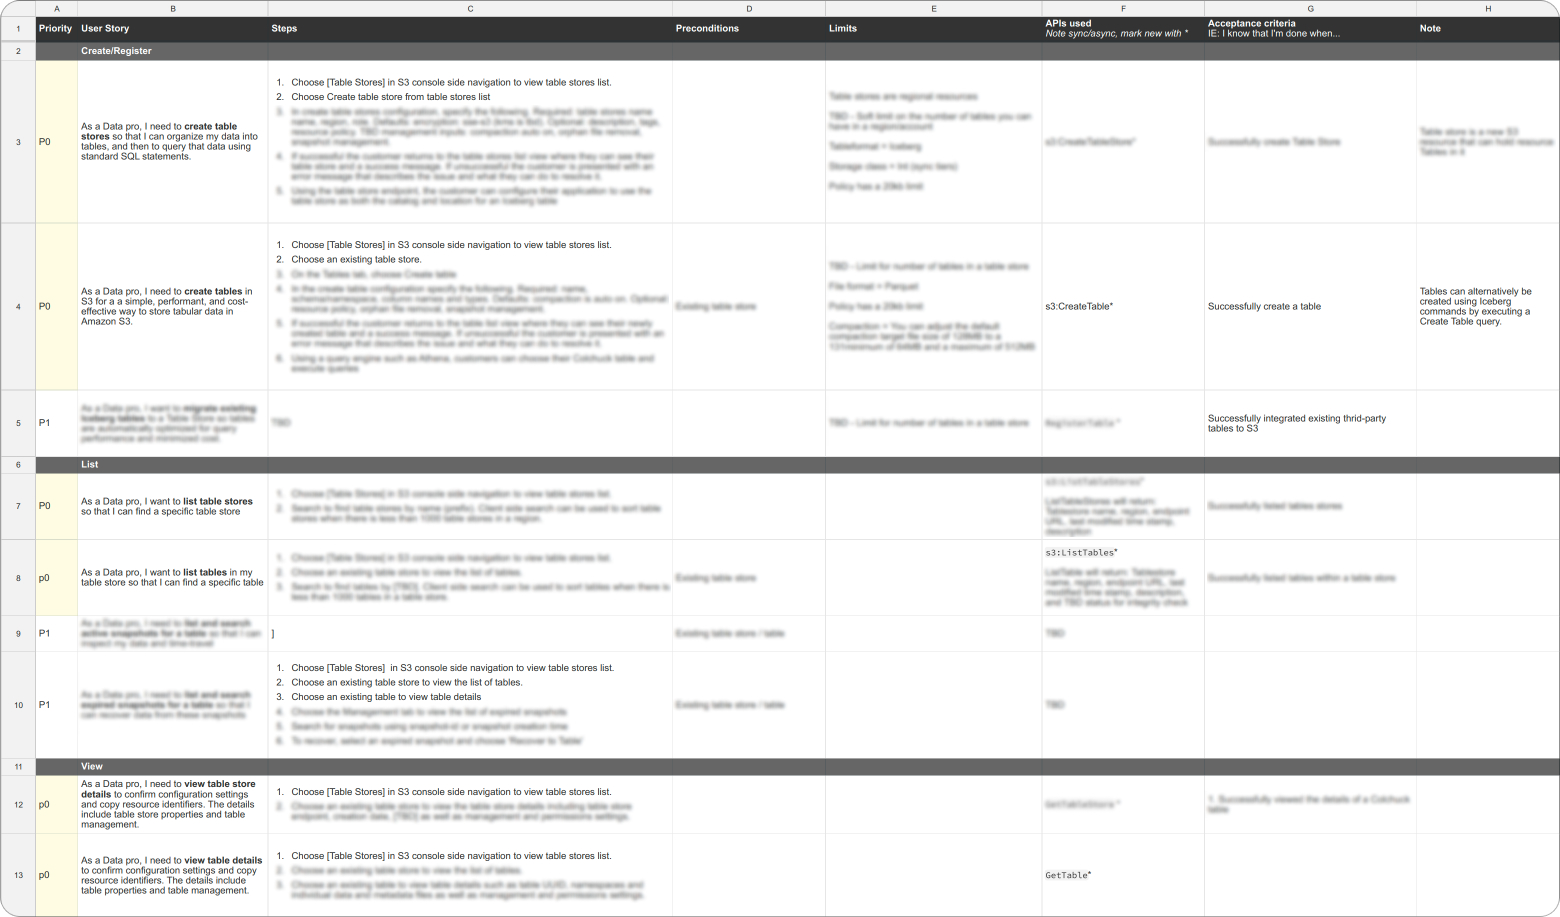
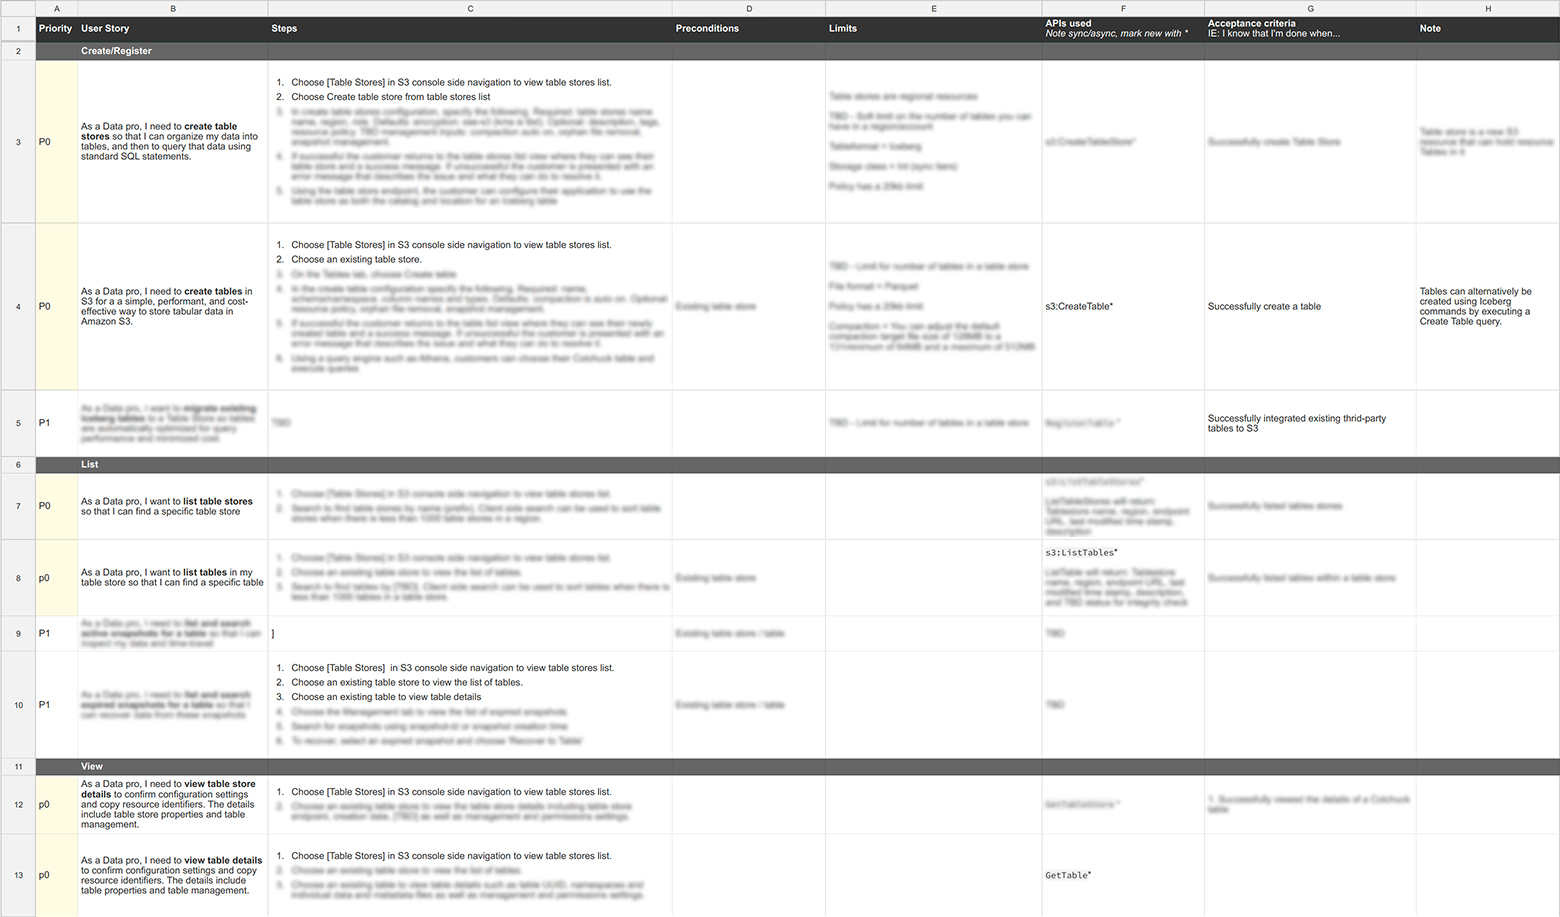
Project pages: looping crossfade media, S3 Tables content, layout tweaks
- CrossfadeImage cycles any number of images (JS-driven, reduced-motion
  aware); a single image renders static via a length guard.
- Adopt crossfades for the S3 Tables user-journey / console-flow visuals and
  the Agent research/backend visuals; add the supporting images.
- Rewrite the Agent (Amazon Q assistant) section 02 into design process,
  building blocks + layout, motion, and backend; drop its duplicate role line.
- noBorder now defaults to true; "S3 Table" -> "S3 Tables"; outcome
  description spans cols 2-11; section description bumped to p-m size.

diff --git a/app/data/projects.js b/app/data/projects.js
@@ -12,7 +12,7 @@ export const projects = {
     impact: "A unified console experience for infrastructure setup and data access across 3 storage services",
     type: "AWS",
     year: "2024",
-    tags: ["Cloud infrastructure", "0 → 1"],
+    tags: ["Sole designer", "Cloud infrastructure", "0 → 1"],
     metricsImage: "/img/sda/final-visual/createap.png",
     metrics: [
       { value: 34, suffix: "%", label: "Customers adoption" },
@@ -93,11 +93,11 @@ export const projects = {
     slug: "s3-tables",
     heroImage: "/img/s3tables/thumbnail.jpg",
     detailImage: "/img/s3tables/project-page-thumbnail.jpg",
-    projectTitle: { main: "AWS S3 Table: turn big data into insights in one click" },
-    navTitle: "AWS S3 Table: turn big data into insights in one click",
+    projectTitle: { main: "AWS S3 Tables: turn big data into insights in one click" },
+    navTitle: "AWS S3 Tables: turn big data into insights in one click",
     heroProblem: "Customers were spending millions building and maintaining complex infrastructure for AI/ML workloads. I led a 20-person team to design S3 Tables, a new product {img:/img/s3tables/customers-inline-img/hero-text/000.jpg,/img/s3tables/customers-inline-img/hero-text/101.jpg,/img/s3tables/customers-inline-img/hero-text/102.jpg|https://aws.amazon.com/s3/features/tables/} to eliminate that complexity, from concept to launch in 8 weeks.",
     heroSolution: "S3 Tables, featured in {link:the 2024 AWS CEO keynote}, handles infrastructure automatically, providing a seamless console experience that lets teams turn big data into insights in seconds.",
-    impact: "I led the UX of S3 Tables, a seamless console experience that turns big data into insights in seconds.",
+    impact: "I led the UX for S3 Tables, shaping the product’s core user experience, from concept to launch.",
     type: "AWS",
     year: "2024",
     tags: ["Design lead", "From concept to launch", "Cloud infrastructure"],
@@ -118,13 +118,13 @@ export const projects = {
         navLabel: "01 Who, why, and what",
         heading: "01 Who, why, and what",
         content: {
-          lead: "20+ interviews revealed that customers {img:/img/s3tables/customers-inline-img/netflix.jpg,/img/s3tables/customers-inline-img/bmw.jpg,/img/s3tables/customers-inline-img/mcdonlad.jpg,/img/s3tables/customers-inline-img/nasdaq.jpg,/img/s3tables/customers-inline-img/siemens.jpg,/img/s3tables/customers-inline-img/3m.jpg} don't want to store structured data in unstructured storage while maintaining custom infrastructure. They need a solution to streamline storage operations so teams can focus on data querying. I documented the existing user journey and its major pain points, proposed an optimized journey flow, and defined the console's information architecture. I then adapted the AWS JTBD framework to give the team a shared language for strategic scope trade-offs, categorized every user action and API detail into 6 workflows, and led the team to align on the product launch plan in one week.",
+          lead: "20+ interviews revealed that customers {img:/img/s3tables/customers-inline-img/netflix.jpg,/img/s3tables/customers-inline-img/bmw.jpg,/img/s3tables/customers-inline-img/mcdonlad.jpg,/img/s3tables/customers-inline-img/nasdaq.jpg,/img/s3tables/customers-inline-img/siemens.jpg,/img/s3tables/customers-inline-img/3m.jpg} don't want to store structured data in unstructured storage while maintaining custom infrastructure. They need a solution to streamline storage operations so teams can focus on data querying. I documented the existing user journey and major pain points, proposed an ideal user journey, then adapted the AWS JTBD framework to give the team a shared language for strategic scope trade-offs. After reviewing the JTBD framework, the team aligned on the product launch plan in one week.",
           subsections: [
-            { label: "Research", text: "While working with 1 researcher and 3 PMs, I used internal AI tools to synthesize transcripts from 20+ enterprise customer interviews, and the outcome revealed who we are designing for and their respective pain points.", images:[{ src: "/img/s3tables/problem/research.jpg", alt: "Research", noBorder: true}]},
-            { label: "Target personas", text: "Data engineers maintain storage systems daily. Strategic leads evaluate infrastructure costs and reliability.", images: [{ src: "/img/s3tables/problem/p-data-engineer.png", alt: "Data engineer persona", noBorder: true }, { src: "/img/s3tables/problem/p-strategic-lead.png", alt: "Strategic lead persona", noBorder: true }] },
-            { label: "Existing user journey with pain points", text: "I mapped the user journey into phases to surface the highest-friction tasks, guiding the team to align on priorities to act on. The user journey shows that millions are wasted on custom infrastructure and integration with query engines, while no native way to keep structured data up-to-date.", images: [{ src: "/img/s3tables/problem/user-journey.gif", alt: "Problem 1", noBorder: true }] },
-            { label: "JTBD Framework", text: "I first worked with the team to identify all user stories based on the JTBD framework, then mapped each story with its console steps, preconditions, and APIs to six groups: Create, List, View, Manage, Audit, and Delete.", images: [{ src: "/img/s3tables/scoping/JTBDframework.jpg", alt: "JTBD framework", noBorder: true }] },
-            { label: "Action plan", text: "The framework allowed the team to align on a prioritized action plan with defined APIs, known limitations, and console impact, turning an ambiguous product space into a concrete roadmap.", images: [{ src: "/img/s3tables/scoping/action-plan.jpg", alt: "Action plan", noBorder: true }] },
+            { label: "Research", text: "While working with 1 researcher and 3 PMs, I used internal AI tools to synthesize transcripts from 20+ enterprise customer interviews, and the outcome revealed who we are designing for and their respective pain points.", images:[{ src: "/img/s3tables/problem/research.jpg", alt: "Research"}]},
+            { label: "Target personas", text: "Data engineers maintain storage systems daily. Strategic leads evaluate infrastructure costs and reliability.", images: [{ src: "/img/s3tables/problem/p-data-engineer.png", alt: "Data engineer persona" }, { src: "/img/s3tables/problem/p-strategic-lead.png", alt: "Strategic lead persona" }] },
+            { label: "Existing user journey with pain points", text: "I mapped the user journey into phases to surface the highest-friction tasks, guiding the team to align on priorities to act on. The user journey shows that millions are wasted on custom infrastructure and integration with query engines, while no native way to keep structured data up-to-date.", images: [{ src: "/img/s3tables/problem/user-journey.gif", alt: "Problem 1" }] },
+            { label: "JTBD Framework", text: "I first worked with the team to identify all user stories based on the JTBD framework, then mapped each story with its console steps, preconditions, and APIs to six groups: Create, List, View, Manage, Audit, and Delete.", images: [{ src: "/img/s3tables/scoping/JTBDframework.jpg", alt: "JTBD framework" }] },
+            { label: "Action plan", text: "The framework allowed the team to align on a prioritized action plan with defined APIs, known limitations, and console impact, turning an ambiguous product space into a concrete roadmap.", images: [{ src: "/img/s3tables/scoping/action-plan.jpg", alt: "Action plan" }] },
           ],
         },
       },
@@ -135,10 +135,10 @@ export const projects = {
         content: {
           lead: "With scope locked, I turned the optimized journey into the console's structure. I defined an information architecture that groups tasks the way customers think, drafted the end-to-end flow, then tested and refined it until the path from setup to query was clear.",
           subsections: [
-            { label: "User journey optimization", text: "Building on the documented journey and its pain points, I reorganized the necessary actions into logical phases and eliminated steps that S3 Tables could automate or replace.", images: [{ src: "/img/s3tables/problem/user-journey-optimization.png", alt: "Optimized user journey", noBorder: true }] },
-            { label: "Console information architecture", text: "I ran two workshops with the PM and engineering teams to define and align on the console's information architecture.", images: [{ src: "/img/s3tables/scoping/console-ia.jpg", alt: "Console information architecture", noBorder: true }] },
-            { label: "User flow exploration", text: "Grounded in the ideal journey and the defined IA, I explored several console flow options. Quick testing with internal teams surfaced where the experience felt fragmented, and I gathered feedback on the specific breakpoints.", images: [{ src: "/img/s3tables/scoping/console-flow-issue.jpg", alt: "User flow exploration", noBorder: true }] },
-            { label: "User flow optimization", text: "I revised the flows and console steps based on that feedback, introducing a streamlined experience that directly addressed the customer pain points.", images: [{ src: "/img/s3tables/scoping/console-flow-optimization.jpg", alt: "User flow optimization", noBorder: true }] },
+            { label: "User journey optimization", text: "Building on the documented journey and its pain points, I reorganized the necessary actions into logical phases and eliminated steps that S3 Tables could automate or replace.", images: [{ srcs: ["/img/s3tables/problem/user-journey-problem.jpg", "/img/s3tables/problem/user-journey-optimization.jpg"], alt: "Optimized user journey" }] },
+            { label: "Console information architecture", text: "I ran two workshops with the PM and engineering teams to define and align on the console's information architecture.", images: [{ src: "/img/s3tables/scoping/console-ia.jpg", alt: "Console information architecture" }] },
+            { label: "User flow exploration", text: "Grounded in the ideal journey and the defined IA, I explored several console flow options. Quick testing with internal teams surfaced where the experience felt fragmented, and I gathered feedback on the specific breakpoints.", images: [{ srcs: ["/img/s3tables/scoping/console-flow-issue.jpg", "/img/s3tables/scoping/console-flow-issue-2.jpg"], alt: "User flow exploration" }] },
+            { label: "User flow optimization", text: "I revised the flows and console steps based on that feedback, introducing a streamlined experience that directly addressed the customer pain points.", images: [{ src: "/img/s3tables/scoping/console-flow-optimization.jpg", alt: "User flow optimization" }] },
           ],
         },
       },
@@ -151,7 +151,7 @@ export const projects = {
           subsections: [
             { label: "Design ideation", text: "I tested three integration models: a multi-step wizard that walked through each service, a fragmented approach with separate configuration pages, and a single-page create flow with integration built in.", images: [{ src: "/img/s3tables/design-iteration/design-ideation.jpg", alt: "Exploration" }] },
             { label: "Trade-offs", text: "The wizard added friction to what should feel instant. The fragmented model scattered a single decision across multiple pages. Customer research showed most users' end goal was querying, so bundling integration into table bucket creation matched their mental model.", images: [{ src: "/img/s3tables/design-iteration/s3table-iteration-tradeoffs.jpg", alt: "Trade-offs" }] },
-            { label: "Visual language exploration", text: "I proposed combining integration into the create flow as a default-on checkbox. One click replaces what used to require configuring multiple services independently. The team aligned quickly once the testing data backed it up.", images: [{ src: "/img/s3tables/design-iteration/decision-new.png", alt: "Decision", noBorder: true }] },
+            { label: "Visual language exploration", text: "I proposed combining integration into the create flow as a default-on checkbox. One click replaces what used to require configuring multiple services independently. The team aligned quickly once the testing data backed it up.", images: [{ src: "/img/s3tables/design-iteration/decision-new.png", alt: "Decision" }] },
           ],
         },
       },
@@ -167,7 +167,7 @@ export const projects = {
             text: "The S3 Tables console enables customers to create, manage, and query structured data for analytics and AI/ML workloads in a few clicks, drastically simplifies the way customers manage their storage.",
             images: [
               { src: "/img/s3tables/final-visual/newUI/tb-list.png", alt: "S3 Tables bucket overview" },
-              { src: "/img/s3tables/final-visual/newUI/tb-detail-l.png", alt: "S3 Table bucket detail page" },
+              { src: "/img/s3tables/final-visual/newUI/tb-detail-l.png", alt: "S3 Tables bucket detail page" },
             ],
           },
           {
@@ -215,8 +215,7 @@ export const projects = {
     impact: "Transforming AWS console interactions from manual, service-driven workflows to purpose-driven, agent-driven experiences.",
     type: "AWS",
     year: "2026",
-    role: "Lead UX Designer",
-    tags: ["AI", "0 → 1"],
+    tags: ["Lead UX Designer", "AI", "0 → 1"],
     // metrics intentionally empty until real numbers are available.
     metrics: [],
     sections: [
@@ -227,22 +226,22 @@ export const projects = {
         content: {
           lead: "Customer feedback on the launched Amazon Q console pointed to one gap: the experience was service-driven and manual when customers wanted it to be agentic and streamlined. I partnered with product to consolidate usage data and find the workflows that would benefit most from an agentic flow.",
           subsections: [
-            { label: "Research", text: "I built a research knowledge base and used a research agent to pull from it alongside trustworthy external sources and internal persona reports. The agent generated a product requirement document that I reviewed and refined with the product team." },
-            { label: "Target personas", text: "Two customer types shaped every decision. New and casual users want to state a purpose and explore AWS services through conversation. Power users live in the terminal and want conversational help layered on top, not a replacement." },
-            { label: "Pain points", text: "The console was organized around services rather than intent, so customers had to know which service to use before they could start. Common workflows were manual and fragmented, with no agentic path to complete them end to end." },
+            { label: "Research process", text: "Fully embracing the AI tools, I built a research knowledge base and used a research agent to pull from it alongside trustworthy external sources and internal persona reports. The agent generated a product requirement document that I reviewed and refined with the product team.", images: [{ srcs: ["/img/ai-assistant/research/research-process.png"], alt: "Research process" }] },
+            { label: "Target customers and their pain points", text: "Two customer types shaped every decision. New and casual users want to state a purpose and explore AWS services through conversation. Power users live in the terminal and want conversational help layered on top, not a replacement. On the other hand, the console was organized around services rather than intent, so customers had to know which service to use before they could start. Common workflows were manual and fragmented, with no agentic path to complete them end to end.", images: [{ srcs: ["/img/ai-assistant/research/one-pager.png", "/img/ai-assistant/research/one-pager-w-highlight.png"], alt: "Research one-pager" }] },
           ],
         },
       },
       {
         id: "scoping",
-        navLabel: "02 Product scoping",
-        heading: "02 Product scoping",
+        navLabel: "02 Define the agentic experience and backend design",
+        heading: "02 Define the agentic experience and backend design",
         content: {
-          lead: "I turned the research into a shared product definition and a system design the team could build on, aligning product and engineering before any pixels were drawn.",
+          lead: "Grounded in customer feedback, I designed an agentic experience matched to how customers actually think, and partnered with engineering on a backend structure that could scale with it.",
           subsections: [
-            { label: "Requirement alignment", text: "I used the generated requirement document to align the product team on scope. We reviewed it, updated it, and agreed on what the agentic experience needed to do." },
-            { label: "System design", text: "I partnered with engineering to draft and test the system design, making sure the backend was robust enough to support the expansion into an agentic experience." },
-            { label: "Experience mapping", text: "I mapped the Amazon Q console layout in FigJam so the team could see how the agentic flow fit into the existing console." },
+            { label: "Design process", text: "I drove the design with multiple AI design agents and skills, partnering with the engineering team to define the backend design and review prototypes.", images: [{ src: "/img/ai-assistant/design-evolution/design-process.png", alt: "Design process" }] },
+            { label: "Building blocks and layout", text: "I captured the core building blocks that let every action happen in one place, then assembled them into a layout that flows seamlessly within a single panel.", images: [{ srcs: ["/img/ai-assistant/design-evolution/1.jpg", "/img/ai-assistant/design-evolution/2.jpg"], alt: "Building blocks and panel layout" }] },
+            { label: "Motion and interaction", text: "I then designed the motion for how customers interact with the interface, expanding and collapsing panels to fit their needs. Power users can expand the terminal panel, and anyone can expand or collapse the output panel depending on where they are in a flow.", images: [{ srcs: ["/img/ai-assistant/design-evolution/flow.gif"], alt: "Panel expand and collapse motion" }] },
+            { label: "Backend structure and syntax", text: "In parallel, I partnered with the engineering team to define the backend structure and syntax, mapping the most common actions to the right components so the interface and the system stay in sync.", images: [{ srcs: ["/img/ai-assistant/design-evolution/backend-1.jpg", "/img/ai-assistant/design-evolution/backend-2.jpg", "/img/ai-assistant/design-evolution/backend-3.jpg"], alt: "Backend structure and syntax" }] },
           ],
         },
       },

diff --git a/app/components/ProjectDetailClient.js b/app/components/ProjectDetailClient.js
@@ -1,6 +1,6 @@
 "use client";
 
-import { Fragment, useLayoutEffect, useRef } from "react";
+import { Fragment, useLayoutEffect, useEffect, useState, useRef } from "react";
 import Navigation from "./Navigation";
 import Footer from "./Footer";
 import MetricsBento from "./MetricsBento";
@@ -63,6 +63,35 @@ function SectionHeading({ heading }) {
 }
 
 // One subsection: a full-width header (bold label + centered hairline) over a
+// A subsection image with `srcs: [a, b]` crossfades: the first image sits in
+// flow (sets the box), the second overlays and loops its opacity 0->1->0, so it
+// reads as a -> b -> a. The loop is CSS-only and pauses under reduced motion.
+function CrossfadeImage({ srcs, alt, noBorder }) {
+  const [active, setActive] = useState(0);
+  useEffect(() => {
+    if (srcs.length < 2) return;
+    if (window.matchMedia("(prefers-reduced-motion: reduce)").matches) return;
+    const id = setInterval(() => setActive((a) => (a + 1) % srcs.length), 1600);
+    return () => clearInterval(id);
+  }, [srcs.length]);
+  return (
+    <div className={`pd-media pd-crossfade${noBorder ? " pd-media--no-border" : ""}`}>
+      {srcs.map((src, i) => (
+        <img
+          key={i}
+          // the first image is in flow (sets the box); the rest overlay it and
+          // cross-fade in turn via the .is-active opacity toggle
+          data-base={i === 0 ? "" : undefined}
+          className={`pd-crossfade-img${i === active ? " is-active" : ""}`}
+          src={src}
+          alt={i === 0 ? alt : ""}
+          aria-hidden={i === 0 ? undefined : "true"}
+        />
+      ))}
+    </div>
+  );
+}
+
 // grid body — description in cols 1-3, image(s) in cols 5-12 (col 4 is an empty
 // gutter). Subsections are listed down the page, not tabbed.
 function Subsection({ sub }) {
@@ -77,14 +106,23 @@ function Subsection({ sub }) {
           {sub.text && <p>{sub.text}</p>}
         </div>
         <div className="pd-sub-media">
-          {(sub.images || []).map((img, j) => (
-            <img
-              key={j}
-              className={`pd-media${img.noBorder ? " pd-media--no-border" : ""}`}
-              src={img.src}
-              alt={img.alt}
-            />
-          ))}
+          {(sub.images || []).map((img, j) => {
+            // noBorder defaults to true (border/radius off); opt into a frame
+            // with noBorder: false on the image.
+            const noBorder = img.noBorder !== false;
+            // 2+ srcs -> crossfade animation; 1 image (src or single-element
+            // srcs) -> a plain static image.
+            return img.srcs?.length > 1 ? (
+              <CrossfadeImage key={j} srcs={img.srcs} alt={img.alt} noBorder={noBorder} />
+            ) : (
+              <img
+                key={j}
+                className={`pd-media${noBorder ? " pd-media--no-border" : ""}`}
+                src={img.src || img.srcs?.[0]}
+                alt={img.alt}
+              />
+            );
+          })}
         </div>
       </div>
     </div>

diff --git a/app/project.css b/app/project.css
@@ -127,7 +127,7 @@
 .pd-section-head p {
   grid-column: 1 / 9;
   margin: var(--space-title-to-desc) 0 0;
-  font-size: var(--font-size-p-s);
+  font-size: var(--font-size-p-m);
   color: var(--color-fg);
   text-wrap: pretty;
 }
@@ -135,9 +135,10 @@
 /* Centered heading + lead (e.g. the Outcome section) */
 .pd-section-head--center h2,
 .pd-section-head--center p {
-  grid-column: 1 / 13;
   text-align: center;
 }
+.pd-section-head--center h2 { grid-column: 1 / 13; }
+.pd-section-head--center p { grid-column: 2 / 12; }   /* description fills cols 2-11 */
 
 /* --- Subsections: a stacked list ----------------------------------------
    Each subsection is a full-width header (bold label + a centered hairline
@@ -197,6 +198,36 @@
    so we neither add a border nor round them — our radius would clip the frame's
    own corners. */
 .pd-media--no-border { border: none; border-radius: 0; }
+
+/* Crossfade media: the first image (in flow, full column width) sets the box;
+   every image overlays it, centered at the shared box height keeping its natural
+   width, and the active one fades to full opacity. JS advances the active index,
+   so any number of images cross-fade in a loop, and images of different widths
+   swap cleanly with no crop (side gaps show the page). */
+.pd-crossfade { position: relative; overflow: hidden; text-align: center; }
+.pd-crossfade-img {
+  display: block;
+  opacity: 0;
+  transition: opacity 0.4s ease-in-out;
+}
+.pd-crossfade-img.is-active { opacity: 1; }
+.pd-crossfade-img[data-base] {           /* first image: in flow, sets the box */
+  position: relative;
+  width: 100%;
+  height: auto;
+}
+.pd-crossfade-img:not([data-base]) {     /* overlays: centered at the box height */
+  position: absolute;
+  top: 0;
+  left: 50%;
+  transform: translateX(-50%);
+  height: 100%;
+  width: auto;
+}
+@media (prefers-reduced-motion: reduce) {
+  .pd-crossfade-img { transition: none; opacity: 0; }
+  .pd-crossfade-img[data-base] { opacity: 1; }   /* show only the first image */
+}
 
 /* --- Outcome metrics: full-width wrapper for the bento (MetricsBento) ----- */
 .pd-metrics {
